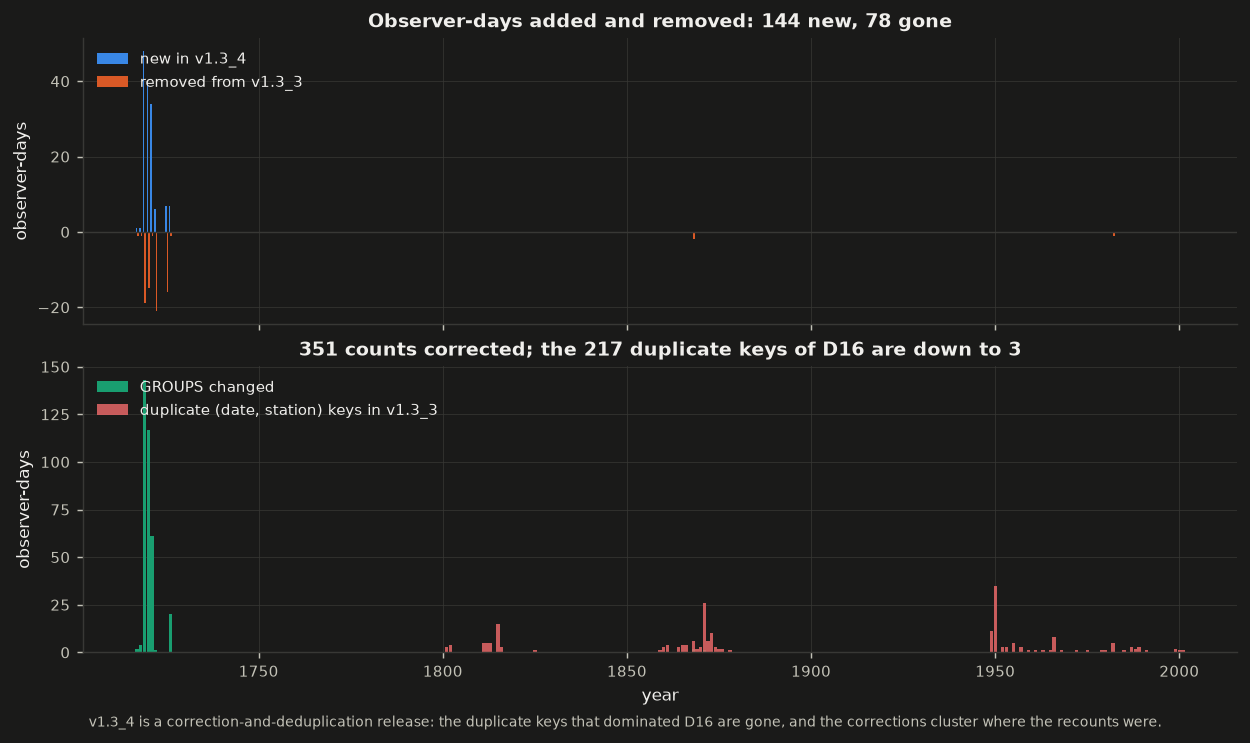
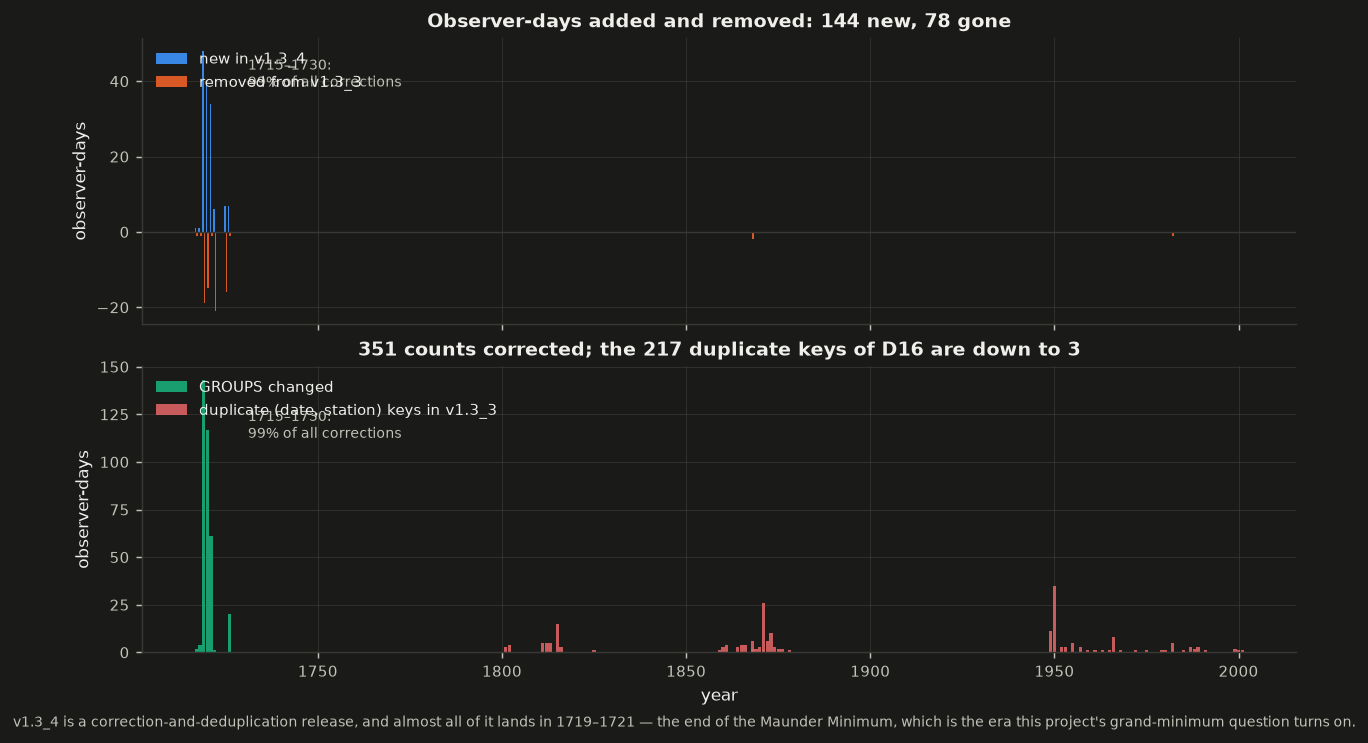
Smoke-test the Step 1 scripts and mark the step implemented
Each check script now runs under --quick in the slow suite, which keeps them
runnable and keeps the CSVs the figures and the results doc read from silently
disappearing. One of them asserts that every run writes a lineage record with
the firewall statement, since ADR-002 makes that a property of a run rather
than of the code.

Also records what Step 1 produced in the roadmap's paper-item list: the
stationarity result with its early-RGO exception, and the filter cost measured
rather than estimated.

diff --git a/tests/test_step1_scripts.py b/tests/test_step1_scripts.py
@@ -1,0 +1,123 @@
+"""The Step 1 scripts must run end to end and produce what the results doc cites.
+
+Marked slow: each one fits or bootstraps over real data. The point is not the
+numbers -- those are checked where they are computed -- but that the scripts stay
+runnable, keep writing the CSVs the figures and the results doc read, and keep
+honouring the firewall by writing a lineage record.
+"""
+
+from __future__ import annotations
+
+import json
+import subprocess
+import sys
+
+import pytest
+
+from gn_next_gen.paths import CONFIGS, REPO_ROOT, SCRIPTS
+
+
+def _run(script: str, *args: str, cwd=REPO_ROOT) -> subprocess.CompletedProcess:
+    return subprocess.run(
+        [sys.executable, str(SCRIPTS / script), *args],
+        capture_output=True,
+        text=True,
+        cwd=cwd,
+        env={"JAX_PLATFORMS": "cpu", **_env()},
+    )
+
+
+def _env() -> dict:
+    import os
+
+    return {k: v for k, v in os.environ.items() if k != "JAX_PLATFORMS"}
+
+
+@pytest.mark.slow
+def test_check_a_runs_and_writes_its_outputs(tmp_path):
+    proc = _run(
+        "check_a_dynamics.py",
+        "--quick",
+        "--config",
+        str(CONFIGS / "step1_check_a.yaml"),
+        "--out-dir",
+        str(tmp_path),
+    )
+    assert proc.returncode == 0, proc.stderr[-3000:]
+
+    for name in (
+        "scores.csv",
+        "acf.csv",
+        "zero_by_bin.csv",
+        "count_pmf.csv",
+        "run_lengths.csv",
+        "lineage.json",
+    ):
+        assert (tmp_path / name).is_file(), name
+    figures = {p.name for p in (tmp_path / "figures").glob("*.png")}
+    assert any(n.startswith("f07") for n in figures)
+    assert any(n.startswith("f09") for n in figures)
+    assert all(
+        f"{stem}_{mode}.png" in figures
+        for stem in {n.rsplit("_", 1)[0] for n in figures}
+        for mode in ("light", "dark")
+    )
+
+    import pandas as pd
+
+    scores = pd.read_csv(tmp_path / "scores.csv")
+    assert {"survey", "threshold_msh", "n_classes", "phi", "aggregate"} <= set(scores.columns)
+    assert (scores["phi"] > 0).all() and (scores["phi"] < 1).all()
+
+
+@pytest.mark.slow
+def test_check_b_runs_and_writes_its_outputs(tmp_path):
+    proc = _run(
+        "check_b_stationarity.py",
+        "--quick",
+        "--config",
+        str(CONFIGS / "step1_check_b.yaml"),
+        "--out-dir",
+        str(tmp_path),
+    )
+    assert proc.returncode == 0, proc.stderr[-3000:]
+    for name in ("percentiles.csv", "epoch_pairs.csv", "mixtures.csv", "lineage.json"):
+        assert (tmp_path / name).is_file(), name
+
+
+@pytest.mark.slow
+def test_every_run_records_its_lineage_and_the_firewall(tmp_path):
+    """ADR-002 wants lineage per run; a run that does not write it is not compliant."""
+    proc = _run(
+        "check_b_stationarity.py",
+        "--quick",
+        "--config",
+        str(CONFIGS / "step1_check_b.yaml"),
+        "--out-dir",
+        str(tmp_path),
+    )
+    assert proc.returncode == 0, proc.stderr[-3000:]
+    record = json.loads((tmp_path / "lineage.json").read_text())
+    assert record["variant"] == "sunspot_only"
+    assert record["firewall"]["proxy_derived_calibration_inputs"] == []
+    assert record["seed"]
+    assert {entry["path"] for entry in record["inputs"]}
+
+
+def test_scripts_are_importable_without_side_effects():
+    """Importing a script must not run an analysis or touch outputs/."""
+    import importlib.util
+
+    for name in (
+        "check_a_dynamics",
+        "check_b_stationarity",
+        "make_step1_figures",
+        "diff_gn_releases",
+        "fetch_silso",
+        "benchmark_forward_filter",
+    ):
+        spec = importlib.util.spec_from_file_location(name, SCRIPTS / f"{name}.py")
+        module = importlib.util.module_from_spec(spec)
+        sys.modules[name] = module
+        spec.loader.exec_module(module)
+        assert hasattr(module, "main"), name

diff --git a/docs/05_roadmap/README.md b/docs/05_roadmap/README.md
@@ -27,7 +27,7 @@ Update this table at the end of every `/implement-step` and `/verify-step`.
 | Step | Spec | Plan | Status | Verification |
 |---|---|---|---|---|
 | 0 | Clean slate (this repository's initial content) | — | Done (2026-10-28) | — |
-| 1 | [step-1-data-foundation-and-viability.md](step-1-data-foundation-and-viability.md) | [step-1-plan.md](../plans/step-1-plan.md) | In progress (plan approved 2026-11-21) | — |
+| 1 | [step-1-data-foundation-and-viability.md](step-1-data-foundation-and-viability.md) | [step-1-plan.md](../plans/step-1-plan.md) | Implemented (2026-11-21) | [step-1-data-foundation.md](../results/step-1-data-foundation.md) |
 | 2 | [step-2-blind-benchmark.md](step-2-blind-benchmark.md) | — | Not started | — |
 | 3 | [step-3-global-network-calibration.md](step-3-global-network-calibration.md) | — | Not started | — |
 | 4 | [step-4-joint-latent-population-model.md](step-4-joint-latent-population-model.md) | — | Not started | — |
@@ -75,11 +75,15 @@ as first-class output: reference-equivalent scale, era-wide drift (prior sensiti
 reference, per-year prior→posterior contraction.
 
 Running list of paper items (add as steps produce them):
-- [x] Data provenance table and known-issue resolutions — mostly delivered by the 2026-10 renovation
-      ([results](../results/raw-data-renovation.md), ADR-009, `data/raw/MANIFEST.csv`, D1–D22 statuses).
-      Still to add in Step 1: resolutions for D16, D17, D22 and the KMAS single-use rule
+- [x] Area-distribution stationarity across the reference era, and the early-RGO exception (Step 1)
+- [x] Forward-filter cost measured on CPU and GPU, replacing the research report's estimates (Step 1)
+- [x] Data provenance table and known-issue resolutions — delivered by the 2026-10 renovation
+      ([results](../results/raw-data-renovation.md), ADR-009, `data/raw/MANIFEST.csv`) and completed in
+      Step 1: **D1–D23 all carry a status**, with D16–D20 largely resolved by release v1.3_4
+      ([ADR-010](../06_decisions/ADR-010-in-place-release-supersession.md)), D22 and D23 handled in
+      `gn_next_gen.io`, and the KMAS single-use rule and the ADR-002 firewall now **enforced in code**
 - [ ] Anchor-sensitivity comparison: the series under both ADR-009 anchorings (Steps 3–4)
-- [ ] Birth-death + thinning validation against reference statistics (Step 1)
+- [x] Birth-death + thinning validation against reference statistics (Step 1) — [results](../results/step-1-data-foundation.md), figures f06–f09
 - [ ] Benchmark design figure and baseline scores (Step 2)
 - [ ] Overlap-graph diagnostics through time (Step 3)
 - [ ] Benchmark comparison of all methods incl. coverage (Steps 3–4)

diff --git a/docs/results/step-1-data-foundation.md b/docs/results/step-1-data-foundation.md
@@ -47,6 +47,13 @@ Observer-day diff: **144 new, 78 removed, 351 with changed counts** — see `f02
 because removing the ~428 duplicate rows outweighs the additions, so this is a
 correction-and-deduplication release, not an extension. Coverage still stops at 2010-12-31.
 
+**Where the corrections land is the striking part.** 99% of the changed counts, 100% of the new
+observer-days and 96% of the removals fall in **1715–1730**, concentrated in **1719–1721**
+(143, 117 and 61 changed counts respectively). That is the end of the Maunder Minimum and the
+start of the recovery — precisely the era this project's grand-minimum question turns on, and
+precisely where ADR-008 says the series must be calibrated rather than merely asserted. Anyone
+comparing a Maunder-era result against one computed from v1.3_3 is comparing different data.
+
 Landing it in place contradicted ADR-006, so it carries **ADR-010** rather than a silent
 deviation. Both workbooks are retained byte-exact; `convert_gn_database_v13.py --release v1.3_3`
 regenerates the superseded tables into `data/interim/` and refuses to write them into
